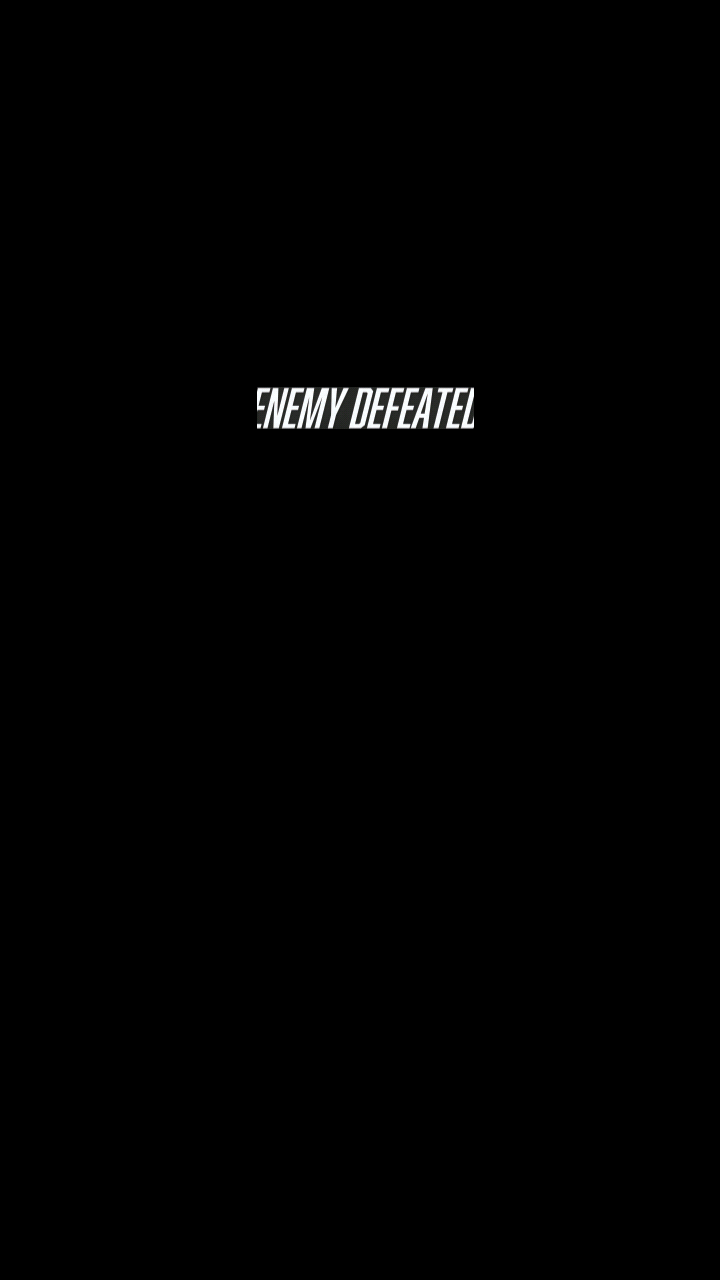
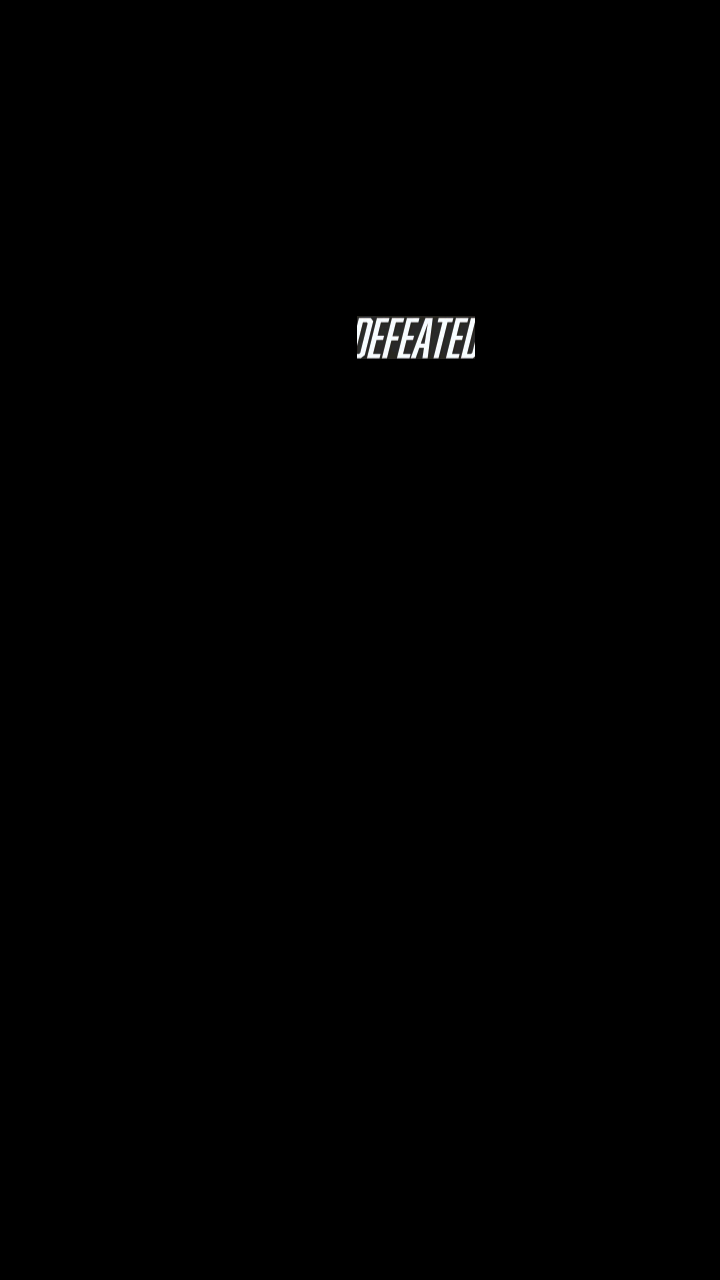
修复联盟突袭

Changed region(s): [[0.3361, 0.25, 0.6722, 0.3438]]

diff --git a/module/union_raid/union_raid.py b/module/union_raid/union_raid.py
@@ -1,7 +1,7 @@
 from module.base.timer import Timer
 from module.logger import logger
 from module.ocr.ocr import Digit
-from module.simulation_room.assets import AUTO_BURST, AUTO_SHOOT, END_FIGHTING
+from module.simulation_room.assets import AUTO_BURST, AUTO_SHOOT, END_FIGHTING, PAUSE
 from module.ui.assets import MAIN_CHECK
 from module.ui.page import page_main
 from module.ui.ui import UI
@@ -24,7 +24,7 @@ class UnionRaid(UI):
             [FREE_OPPORTUNITY_CHECK.area],
             name='FREE_REMAIN',
             model_type=model_type,
-            lang='num',
+            lang='ch',
         )
         return int(FREE_REMAIN.ocr(self.device.image)['text'])
 
@@ -86,7 +86,7 @@ class UnionRaid(UI):
             if (
                 click_timer.reached()
                 and self.appear(ENEMY_DEFEATED, offset=10)
-                and self.appear_then_click(ENEMY_DEFEATED_CONFIRM, offset=(200,10), interval=2)
+                and self.appear_then_click(ENEMY_DEFEATED_CONFIRM, offset=(200, 10), interval=2)
             ):
                 click_timer.reset()
                 continue
@@ -101,7 +101,6 @@ class UnionRaid(UI):
                     break
             else:
                 confirm_timer.clear()
-                break
 
         if self.free_opportunity_remain:
             self.union_raid()
@@ -123,7 +122,7 @@ class UnionRaid(UI):
             if (
                 click_timer.reached()
                 and self.appear(UNION_RAID_CHECK, offset=10)
-                and self.appear_then_click(UNION_RAID_SELECT, offset=10, interval=1)
+                and self.appear_then_click(UNION_RAID_SELECT, offset=(50, 10), interval=2)
             ):
                 click_timer.reset()
                 continue
@@ -154,12 +153,12 @@ class UnionRaid(UI):
             if (
                 click_timer.reached()
                 and self.appear(UNION_RAID_ENEMY_CHECK, offset=10)
-                and self.appear_then_click(ENTER_FIGHT, offset=10, interval=1)
+                and self.appear_then_click(ENTER_FIGHT, offset=10, interval=2)
             ):
                 click_timer.reset()
                 continue
 
-            if click_timer.reached() and self.appear_then_click(AUTO_SHOOT, offset=10, interval=5):
+            if click_timer.reached() and self.appear_then_click(AUTO_SHOOT, offset=10, threshold=0.9, interval=5):
                 click_timer.reset()
                 continue
 
@@ -167,20 +166,25 @@ class UnionRaid(UI):
                 click_timer.reset()
                 continue
 
+            # 红圈
+            if self.config.Optimization_AutoRedCircle and self.appear(PAUSE, offset=(5, 5)):
+                if self.handle_red_circles():
+                    continue
+
             # 战斗结束
             if click_timer.reached() and self.appear_then_click(END_FIGHTING, offset=10, interval=1):
                 logger.info('Complete a union raid')
                 break
 
+        confirm_timer = Timer(3, count=3)
         while 1:
-            confirm_timer = Timer(3, count=3)
             self.device.screenshot()
 
             # 结算弹窗
             if (
                 click_timer.reached()
                 and self.appear(ENEMY_DEFEATED, offset=10)
-                and self.appear_then_click(ENEMY_DEFEATED_CONFIRM, offset=(200,10), interval=2)
+                and self.appear_then_click(ENEMY_DEFEATED_CONFIRM, offset=(200, 10), interval=2)
             ):
                 click_timer.reset()
                 continue

diff --git a/module/union_raid/assets.py b/module/union_raid/assets.py
@@ -4,7 +4,7 @@ from module.base.template import Template
 # This file was automatically generated by dev_tools/button_extract.py.
 # Don't modify it manually.
 
-ENEMY_DEFEATED = Button(area={'cn': (257, 387, 474, 429)}, color={'cn': (138, 140, 140)}, button={'cn': (257, 387, 474, 429)}, file={'cn': './assets/cn/union_raid/ENEMY_DEFEATED.png'})
+ENEMY_DEFEATED = Button(area={'cn': (357, 316, 475, 359)}, color={'cn': (136, 138, 138)}, button={'cn': (357, 316, 475, 359)}, file={'cn': './assets/cn/union_raid/ENEMY_DEFEATED.png'})
 ENEMY_DEFEATED_CONFIRM = Button(area={'cn': (263, 911, 293, 932)}, color={'cn': (77, 193, 246)}, button={'cn': (263, 911, 293, 932)}, file={'cn': './assets/cn/union_raid/ENEMY_DEFEATED_CONFIRM.png'})
 ENTER_FIGHT = Button(area={'cn': (493, 1181, 604, 1208)}, color={'cn': (242, 135, 118)}, button={'cn': (493, 1181, 604, 1208)}, file={'cn': './assets/cn/union_raid/ENTER_FIGHT.png'})
 FREE_OPPORTUNITY_CHECK = Button(area={'cn': (304, 354, 415, 406)}, color={'cn': (68, 55, 36)}, button={'cn': (304, 354, 415, 406)}, file={'cn': './assets/cn/union_raid/FREE_OPPORTUNITY_CHECK.png'})
